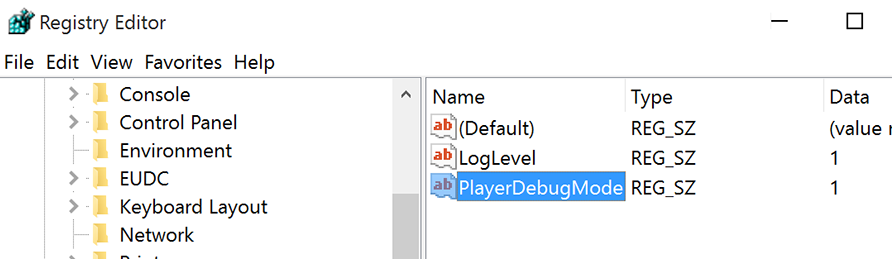
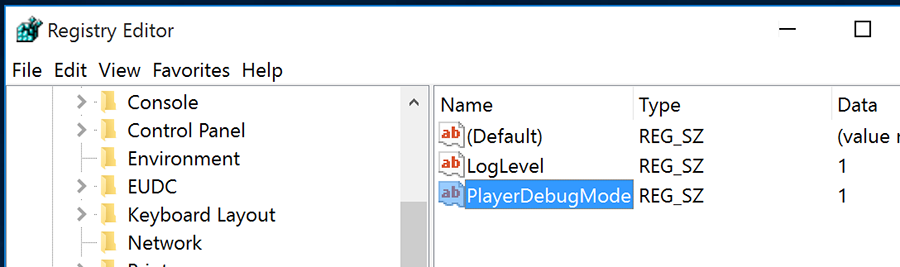
GITBOOK-238: Portal 1.0.1

diff --git a/extensions/watchtower/settings/README.md b/extensions/watchtower/settings/README.md
@@ -2,7 +2,7 @@
 
 ## General
 
-![](../../../.gitbook/assets/settings_v132_both.png)
+![](../../../.gitbook/assets/settings\_v132\_both.png)
 
 General tab is different for Premiere Pro and After Effects.
 
@@ -12,17 +12,17 @@ Project will be synced every time file or folder added to watch folder. Watchtow
 
 #### Show import options
 
-In Premiere Pro when syncing bins a dialogue will appear and ask how to import files.  
+In Premiere Pro when syncing bins a dialogue will appear and ask how to import files.\
 It works for Premiere Pro, Illustrator and Photoshop project files.
 
 #### Photoshop, Illustrator import as
 
-In After Effects it is possible to choose how to import Photoshop and Illustrator files:  
+In After Effects it is possible to choose how to import Photoshop and Illustrator files:\
 as footage, composition or composition with retained layers sizes.
 
 #### Notifications
 
-Premiere Pro event will notify you about sync results.  
+Premiere Pro event will notify you about sync results.\
 After Effects will show notification in Info panel.
 
 #### Share anonymous usage data
@@ -35,42 +35,41 @@ When update will be available, download buttons will appear here.
 
 ## Files
 
-![](../../../.gitbook/assets/settings_v132_file.png)
+![](../../../.gitbook/assets/settings\_v132\_file.png)
 
-Set filter for file extensions to import.  
+Set filter for file extensions to import.\
 You can toggle checkbox and add/delete file extension.
 
 {% hint style="warning" %}
-If file extension is not supported by Premiere Pro or After Effects  
+If file extension is not supported by Premiere Pro or After Effects\
 file won't be imported.
 {% endhint %}
 
 ## Folders
 
-![](../../../.gitbook/assets/settings_v132_folder.png)
+![](<../../../.gitbook/assets/settings\_v132\_folder (1).png>)
 
 Set folder names to be ignored during import.
 
-Filter is case insensitive, adding "proxies" will filter out all folders:  
+Filter is case insensitive, adding "proxies" will filter out all folders:\
 "proxies", "Proxies", "PROXIES", "pRoXiEs" etc.
 
 You can set [**Regex**](regex-folder-name-filter.md) filter as well, put regex pattern between two slashes: "/\_AME/"
 
 {% hint style="info" %}
-When new folder created inside watch folder, "untitled folder" \(or another name, depending on OS language\) will be immediately added to project, before you have time to rename it.
+When new folder created inside watch folder, "untitled folder" (or another name, depending on OS language) will be immediately added to project, before you have time to rename it.
 
 To avoid this, add "untitled folder" to folder name filter in settings
 {% endhint %}
 
 ## License
 
-![](../../../.gitbook/assets/settings_v132_license.png)
+![](../../../.gitbook/assets/settings\_v132\_license.png)
 
-In License tab you can see/copy license code used on current computer.  
+In License tab you can see/copy license code used on current computer.\
 It is possible to deactivate license on current machine.
 
 {% hint style="info" %}
-if you need to deactivate license on a computer you don't have access to,  
+if you need to deactivate license on a computer you don't have access to,\
 use [License Management](../../../website/license.md) on website.
 {% endhint %}
-

diff --git a/website/free/convert-kys-file.md b/website/free/convert-kys-file.md
@@ -1,0 +1,59 @@
+# Convert .kys file
+
+Convert Premiere Pro keyboard shortcuts between macOS and Windows.
+
+![](../../.gitbook/assets/convertKYS.gif)
+
+After upload .kys file you can remap your shortcuts.
+
+{% tabs %}
+{% tab title="macOS -> Windows" %}
+**⌘** _(cmd)_ becomes **Ctrl**, **⌃**_(ctrl)_ becomes **Ctrl**
+
+In case of conflict shortcut will be outlined with orange color.
+
+{% hint style="warning" %}
+If you choose to download without solving command conflicts, these commands will no longer have a shortcut
+{% endhint %}
+{% endtab %}
+
+{% tab title="Windows -> macOS" %}
+**Ctrl** becomes **⌘** _(cmd)_
+{% endtab %}
+{% endtabs %}
+
+The location of the customized keyboard shortcuts file depends on whether you've signed in to Creative Cloud Sync Settings in Premiere Pro or not.
+
+{% tabs %}
+{% tab title="macOS" %}
+Signed into Creative Cloud Sync Settings
+
+```
+Users/[username]/Documents/Adobe/Premiere Pro/[version]/Profile-CreativeCloud-/Mac/
+```
+
+Signed out of Creative Cloud Sync Settings
+
+```
+Users/[username]/Documents/Adobe/Premiere Pro/[version]/Profile-username/Mac/
+```
+{% endtab %}
+
+{% tab title="Windows" %}
+Signed into Creative Cloud Sync Settings
+
+```
+Users\[username]\Documents\Adobe\Premiere Pro\[version]\Profile-CreativeCloud-\Win\
+```
+
+Signed out of Creative Cloud Sync Settings
+
+```
+Users\[username]\Documents\Adobe\Premiere Pro\[version]\Profile-username\Win\
+```
+{% endtab %}
+{% endtabs %}
+
+{% hint style="info" %}
+More information about keyboard shortcuts in Premiere Pro on [official website](https://helpx.adobe.com/premiere-pro/using/keyboard-shortcuts.html)
+{% endhint %}

diff --git a/extensions/excalibur/commands/special.md b/extensions/excalibur/commands/special.md
@@ -4,11 +4,11 @@
 
 Undos Excalibur commands. It respects order of native Premiere Pro and Excalibur commands, so if there is no Excalibur command to undo, it will undo Premiere Pro command. When working on timeline, you can completely switch to Excalibur Undo.
 
-![](../../../.gitbook/assets/special_01_undo.gif)
+![](../../../.gitbook/assets/special\_01\_undo.gif)
 
 {% hint style="info" %}
-Some of commands fill up history stack pretty fast with multiple actions.  
-To give yourself more control over it, increase History level \(max allowed value 100\). Open the History panel `Window > History`and choose Settings from the Flyout \(hamburger\) menu.
+Some of commands fill up history stack pretty fast with multiple actions.\
+To give yourself more control over it, increase History level (max allowed value 100). Open the History panel `Window > History`and choose Settings from the Flyout (hamburger) menu.
 {% endhint %}
 
 {% hint style="warning" %}
@@ -18,12 +18,11 @@ Be careful in case you have this order of actions executed:
 2. Native command
 3. Excalibur command
 
-If you use native undo command, you will get to **\#1** in history stack and record of Excalibur command **\#3** will be lost.
+If you use native undo command, you will get to **#1** in history stack and record of Excalibur command **#3** will be lost.
 {% endhint %}
 
 ## Excalibur Settings
 
 Opens Excalibur Settings
 
-![](../../../.gitbook/assets/special_02_excalibursettings.png)
-
+![](../../../.gitbook/assets/special\_02\_excaliburSettings.png)

diff --git a/website/license.md b/website/license.md
@@ -2,7 +2,7 @@
 
 [License management](http://knightsoftheeditingtable.com/license) allows you to control usage of your licenses online.
 
-![](../.gitbook/assets/license_manager_cross.png)
+![](../.gitbook/assets/License\_manager\_cross.png)
 
 Here you can see how many seats are used and also deactivate computers.
 
@@ -10,27 +10,25 @@ Here you can see how many seats are used and also deactivate computers.
 
 License Management uses email authentication.
 
-#### 1\) Enter email used to purchase.
+#### 1) Enter email used to purchase.
 
-![](../.gitbook/assets/lic_01.jpg)
+![](../.gitbook/assets/lic\_01.jpg)
 
-#### 2\) A sign-in email will be sent to the email you entered.
+#### 2) A sign-in email will be sent to the email you entered.
 
-![](../.gitbook/assets/lic_02.jpg)
+![](../.gitbook/assets/lic\_02.jpg)
 
-#### 3\) Click the link in the email you received.
+#### 3) Click the link in the email you received.
 
-![](../.gitbook/assets/lic_03.jpg)
+![](../.gitbook/assets/lic\_03.jpg)
 
-#### 4\) Enter email again to confirm.
+#### 4) Enter email again to confirm.
 
-![](../.gitbook/assets/lic_04.jpg)
+![](../.gitbook/assets/lic\_04.jpg)
 
-#### 5\) Welcome to License Management!
+#### 5) Welcome to License Management!
 
 Hover over a computer name and click on a red cross to deactivate license.
 
-![](../.gitbook/assets/lic_05.gif)
-
-
+![](../.gitbook/assets/lic\_05.gif)
 

diff --git a/extensions/excalibur/commands/sequence.md b/extensions/excalibur/commands/sequence.md
@@ -50,25 +50,25 @@ Targets specified tracks.
 
 **\*** To affect multiple tracks, type track numbers separated by comma
 
-![](../../../.gitbook/assets/seq\_11\_targettracks.gif)
+![](../../../.gitbook/assets/seq\_11\_targetTracks.gif)
 
 ## Mute Video/Audio Tracks
 
 Mutes specified tracks. For list of options look at [Target Video/Audio Tracks](sequence.md#target-video-audio-tracks).
 
-![](../../../.gitbook/assets/seq\_12\_mutetracks.gif)
+![](../../../.gitbook/assets/seq\_12\_muteTracks.gif)
 
 ## Lock Video/Audio Tracks
 
 Locks specified tracks. For list of options look at [Target Video/Audio Tracks](sequence.md#target-video-audio-tracks).
 
-![](../../../.gitbook/assets/seq\_13\_locktracks.gif)
+![](../../../.gitbook/assets/seq\_13\_lockTracks.gif)
 
 ## Sync Lock Video/Audio Tracks
 
 Sync Locks specified tracks. For list of options look at [Target Video/Audio Tracks](sequence.md#target-video-audio-tracks).
 
-![](../../../.gitbook/assets/seq\_14\_synclocktracks.gif)
+![](../../../.gitbook/assets/seq\_14\_syncLockTracks.gif)
 
 ## Solo Mute Tracks
 

diff --git a/extensions/watchtower/select-folders/README.md b/extensions/watchtower/select-folders/README.md
@@ -2,7 +2,7 @@
 
 ## Standard
 
-![](../../../.gitbook/assets/select_folders_info%20%281%29.png)
+![](<../../../.gitbook/assets/select\_folders\_info (1).png>)
 
 Folder tree shows files on local and network drives. By default tree unfolds up to your project location.
 
@@ -10,15 +10,14 @@ When you select folders to import Watchtower autodetects folders with image sequ
 
 ## Advanced
 
-![](../../../.gitbook/assets/select_folders_info_adv%20%281%29.png)
+![](../../../.gitbook/assets/select\_folders\_info\_adv.png)
 
 If you need special adjustments here you can set:
 
-**S** - import image sequences  
-**F** - flatten sub-folders \(useful for camera cards\)  
-**R** - use relative path \(useful for project templates\)
+**S** - import image sequences\
+**F** - flatten sub-folders (useful for camera cards)\
+**R** - use relative path (useful for project templates)
 
 {% hint style="info" %}
 You can use [keyboard](keyboard-shortcuts.md) to interact with Select Folders menu
 {% endhint %}
-

diff --git a/website/free/README.md b/website/free/README.md
@@ -1,0 +1,5 @@
+# Free
+
+A collection of free extensions and online tools.
+
+<table><thead><tr><th width="184">Name</th><th>Description</th></tr></thead><tbody><tr><td><a href="convert-kys-file.md">Convert .kys file</a></td><td>Convert Premiere Pro shortcuts between macOS and Windows</td></tr><tr><td><a href="../../extensions/arrow/">Arrow</a></td><td>Copy a frame to the clipboard</td></tr><tr><td><a href="../../extensions/compass/">Compass</a></td><td>Define export path for project (absolute or relative)</td></tr><tr><td><a href="../../extensions/the-game/">The Game</a></td><td>Turn everyday work into a game and let your adventure begin.</td></tr><tr><td><a href="../../extensions/portal/">Portal</a></td><td>Access favourite folders from Adobe app</td></tr></tbody></table>

diff --git a/extensions/the-game/customize-sounds.md b/extensions/the-game/customize-sounds.md
@@ -14,7 +14,7 @@ Therefore this instruction consists of two parts:
 {% tab title="Windows" %}
 Open regedit > HKEY\_CURRENT\_USER/Software/Adobe/CSXS.11, then add a new entry **`PlayerDebugMode`** of type **`string`** with the value of **`1`**.
 
-<figure><img src="../../.gitbook/assets/image.png" alt=""><figcaption><p><em>On Windows, Regedit is located in (C:\Windows\regedit). You also can access it using CMD.</em></p></figcaption></figure>
+<figure><img src="../../.gitbook/assets/image (1).png" alt=""><figcaption><p><em>On Windows, Regedit is located in (C:\Windows\regedit). You also can access it using CMD.</em></p></figcaption></figure>
 {% endtab %}
 
 {% tab title="macOS" %}

diff --git a/extensions/excalibur/commands/video-audio-effects.md b/extensions/excalibur/commands/video-audio-effects.md
@@ -4,7 +4,7 @@
 
 Video effect is applied to selected clips.
 
-![](../../../.gitbook/assets/fx_01_warp.gif)
+![](../../../.gitbook/assets/fx\_01\_warp.gif)
 
 ## Audio Effects
 
@@ -14,9 +14,8 @@ By default audio effect is applied to selected clips.
 
 ### Apply to Selected Clips
 
-![](../../../.gitbook/assets/fx_02_eq.gif)
+![](../../../.gitbook/assets/fx\_02\_EQ.gif)
 
 ### Apply to Audio Track
 
-![](../../../.gitbook/assets/fx_03_eq_track.gif)
-
+![](../../../.gitbook/assets/fx\_03\_EQ\_track.gif)

diff --git a/extensions/watchtower/settings/regex-folder-name-filter.md b/extensions/watchtower/settings/regex-folder-name-filter.md
@@ -2,7 +2,7 @@
 
 Regular expressions  (shortened as **regex** or **regexp**) are patterns used to match character combinations in strings.
 
-![](../../../.gitbook/assets/settings\_v132\_folder.png)
+![](<../../../.gitbook/assets/settings\_v132\_folder (1).png>)
 
 To use regex filter enclose search pattern in slashes: "/temp/, "/\d/"\
 Regex filter is case-insensitive.

diff --git a/SUMMARY.md b/SUMMARY.md
@@ -108,8 +108,8 @@
 
 ## Website
 
-* [Free](website/blacksmith/README.md)
-  * [Convert .kys file](website/blacksmith/convert-kys-file.md)
+* [Free](website/free/README.md)
+  * [Convert .kys file](website/free/convert-kys-file.md)
 * [License Management](website/license.md)
 
 ***
